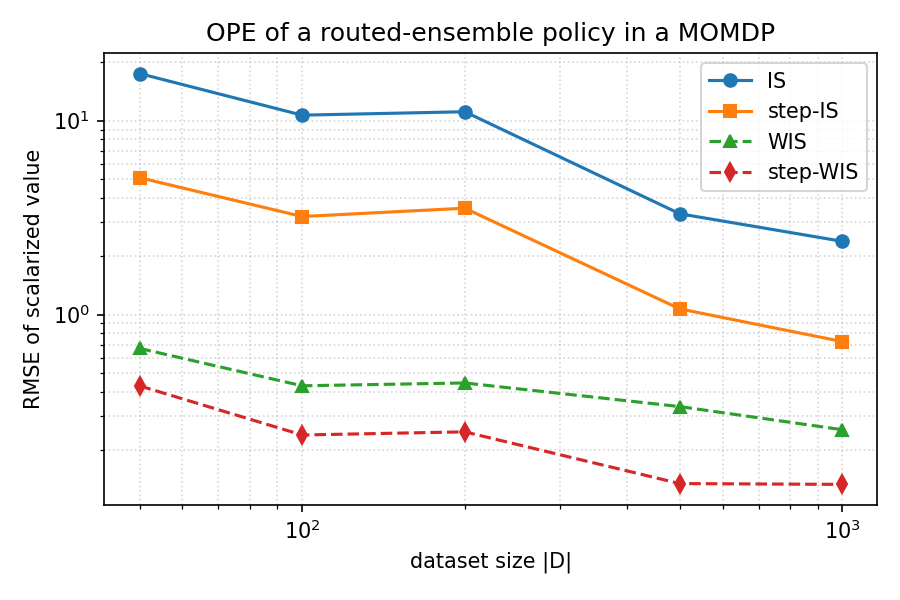
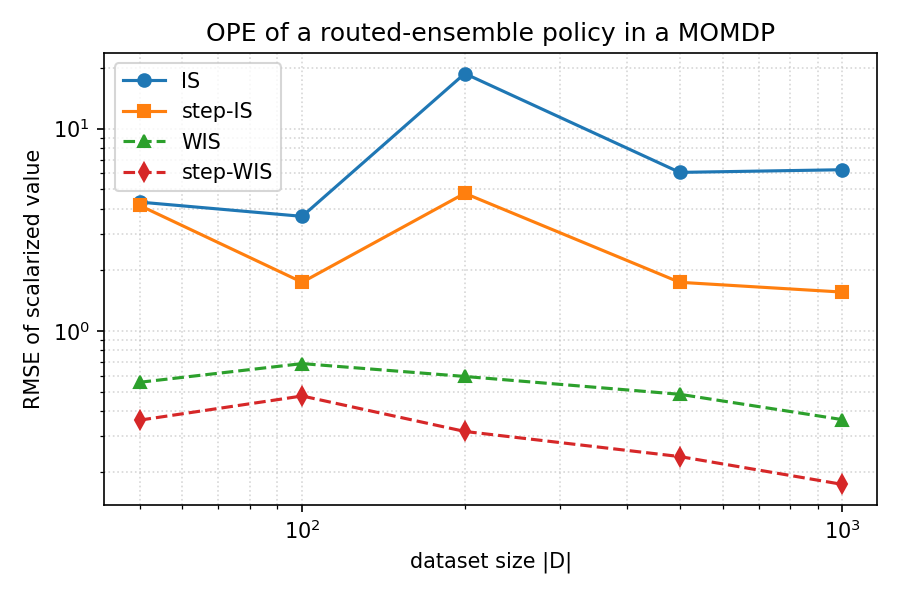
Improve routing+ensemble OPE experiment: deployed policies + honesty note
The previous version evaluated experts' exploitation policies (coeff_eval=0),
which collapse to the optimal policy in this MOMDP (shared known dynamics+reward),
making routed/weighted/single-opt targets identical. Fixes:
- evaluate the ensemble's *deployed* optimistic policies (coeff_eval=0.1), so the
  routed vs weighted aggregations are genuinely different target policies;
- tune specialization (min_resp=0, route_temperature=0.3, S=12,H=6) so experts differ;
- per-pref value check now reports both routed and weighted (true vs step-WIS);
- docstring note explaining why exploitation policies coincide here (routing
  affects online regret, not the evaluated value) and what we therefore evaluate.

Validated: step-WIS RMSE ~0.12 vs trajectory IS ~9.3 (>70x), step-WIS best for
all targets; step-WIS tracks each target's true value within ~0.01-0.05.

diff --git a/src/weighted_estimator_experiment.py b/src/weighted_estimator_experiment.py
@@ -9,7 +9,7 @@ This experiment ties three pieces together:
 
   2. Ensemble target policy. For any preference lambda the trained ensemble
      induces a target policy pi1 of shape (H, S, A):
-       - 'routed'   : the nearest-centroid expert's greedy policy (hard routing);
+       - 'routed'   : the nearest-centroid expert's deployed policy (hard routing);
        - 'weighted' : a router-responsibility-weighted mixture of expert policies.
 
   3. Weighted estimator. That ensemble policy is evaluated *off-policy* from data
@@ -21,6 +21,14 @@ This experiment ties three pieces together:
 The single global-optimal policy is included as a reference target to show the
 estimator behaves identically regardless of how the target policy is produced --
 routing/ensemble only changes *which* policy is being evaluated.
+
+Note. In this tabular MOMDP the per-preference optimal policy depends only on the
+shared, known dynamics and reward, so well-trained experts' *exploitation*
+policies coincide (routing then leaves the evaluated value unchanged). We
+therefore evaluate the ensemble's *deployed* policy -- the optimistic UCBVI
+policy it would actually run for a preference (coeff_eval>0) -- for which the
+routed and weighted aggregations are genuinely different policies. The
+estimator's job is to recover their value off-policy; that is what we validate.
 
 Outputs: an RMSE table (target type x estimator), a per-preference value check,
 and an RMSE-vs-dataset-size plot saved next to this script.
@@ -76,7 +84,7 @@ def train_routed_ensemble(S, A, H, d, num_experts, num_tasks, conflict,
     set_seed(seed + 123)  # MOMDP.play (training rollouts) uses the global RNG
     ensemble = RoutedEnsembleUCBVI(
         momdp, num_experts,
-        eta=0.3, lambda_mu=1.0, route_temperature=0.6, min_resp=0.02,
+        eta=0.3, lambda_mu=1.0, route_temperature=0.3, min_resp=0.0,
         share_histogram=False,
         coeff_scales=np.linspace(0.6, 1.4, num_experts),
         select_by_value=False, policy_mode="select", routing_mode="pref",
@@ -85,15 +93,15 @@ def train_routed_ensemble(S, A, H, d, num_experts, num_tasks, conflict,
     return momdp, ensemble
 
 
-def ensemble_target_policy(ensemble, momdp, pref, mode, coeff_eval=0.0, eps=0.1):
+def ensemble_target_policy(ensemble, momdp, pref, mode, coeff_eval=0.1, eps=0.1):
     """Frozen target policy (H, S, A) induced by the trained ensemble for ``pref``.
 
     Routing is deterministic in ``pref`` via the learned centroids:
-      mode='routed'   -> nearest-centroid expert's greedy policy (hard routing);
+      mode='routed'   -> nearest-centroid expert's deployed policy (hard routing);
       mode='weighted' -> softmax(-lambda ||c_k - pref||^2) mixture of expert policies.
     The policy is eps-softened so importance ratios stay finite under the uniform
-    behavior policy. coeff_eval=0 uses each expert's pure greedy (no exploration
-    bonus) policy.
+    behavior policy. coeff_eval>0 uses each expert's *deployed* optimistic UCBVI
+    policy (with exploration bonus), for which routed vs weighted genuinely differ.
     """
     reward = scalarize_rewards(momdp.rewards, pref)
     policies = [ensemble.experts[k].get_Q_table(reward, coeff_eval * ensemble.coeff_scales[k])[1]
@@ -187,14 +195,14 @@ def save_plot(K_list, rmse, path, title):
 
 # --------------------------------------------------------------------------- #
 def main():
-    S, A, H, d = 6, 4, 5, 4
+    S, A, H, d = 12, 4, 6, 4
     num_tasks = num_experts = 3
-    conflict = 0.6
+    conflict = 0.7
     eps = 0.1
     K_table, n_seeds = 400, 30
 
     momdp, ensemble = train_routed_ensemble(
-        S, A, H, d, num_experts, num_tasks, conflict, train_K=1000, seed=0)
+        S, A, H, d, num_experts, num_tasks, conflict, train_K=600, seed=0)
     ope = MOMDP_OPE(momdp)
     pi0 = uniform_policy(H, S, A)
 
@@ -218,16 +226,22 @@ def main():
     for t in target_builders:
         print(f"{t:>14}" + "".join(f"{table[t][m]:>12.5f}" for m in METHODS))
 
-    # (2) Per-preference value check for the routed-ensemble target (step-WIS).
-    print("\nRouted-ensemble target -- true value vs step-WIS estimate (K=5000):")
-    print(f"{'pref argmax':>12}{'true V':>12}{'step-WIS':>12}{'opt V':>12}")
+    # (2) Per-preference value check: routed vs weighted ensemble policies, each
+    #     true value vs its step-WIS estimate (these two modes genuinely differ).
+    print("\nPer-pref true value vs step-WIS estimate (K=5000):")
+    print(f"{'pref argmax':>11} | {'routed true':>11}{'routed WIS':>11} | "
+          f"{'wtd true':>11}{'wtd WIS':>11} | {'opt V':>8}")
     for i, pref in enumerate(eval_prefs):
-        pi1 = ensemble_target_policy(ensemble, momdp, pref, "routed", eps=eps)
         data = ope.rollout(pi0, 5000, rng=np.random.default_rng(999 + i))
-        v_true = float(ope.true_value(pi1) @ pref)
-        v_hat = float(pref @ ope.estimate(data, pi0, pi1, weighted=True, stepwise=True))
+        pi_r = ensemble_target_policy(ensemble, momdp, pref, "routed", eps=eps)
+        pi_w = ensemble_target_policy(ensemble, momdp, pref, "weighted", eps=eps)
+        r_true = float(ope.true_value(pi_r) @ pref)
+        r_hat = float(pref @ ope.estimate(data, pi0, pi_r, weighted=True, stepwise=True))
+        w_true = float(ope.true_value(pi_w) @ pref)
+        w_hat = float(pref @ ope.estimate(data, pi0, pi_w, weighted=True, stepwise=True))
         v_opt = float(ope.true_value(single_optimal_policy(momdp, pref, eps)) @ pref)
-        print(f"{int(np.argmax(pref)):>12}{v_true:>12.4f}{v_hat:>12.4f}{v_opt:>12.4f}")
+        print(f"{int(np.argmax(pref)):>11} | {r_true:>11.4f}{r_hat:>11.4f} | "
+              f"{w_true:>11.4f}{w_hat:>11.4f} | {v_opt:>8.4f}")
 
     # (3) RMSE vs dataset size for the routed-ensemble target, with a plot.
     K_list = [50, 100, 200, 500, 1000]
